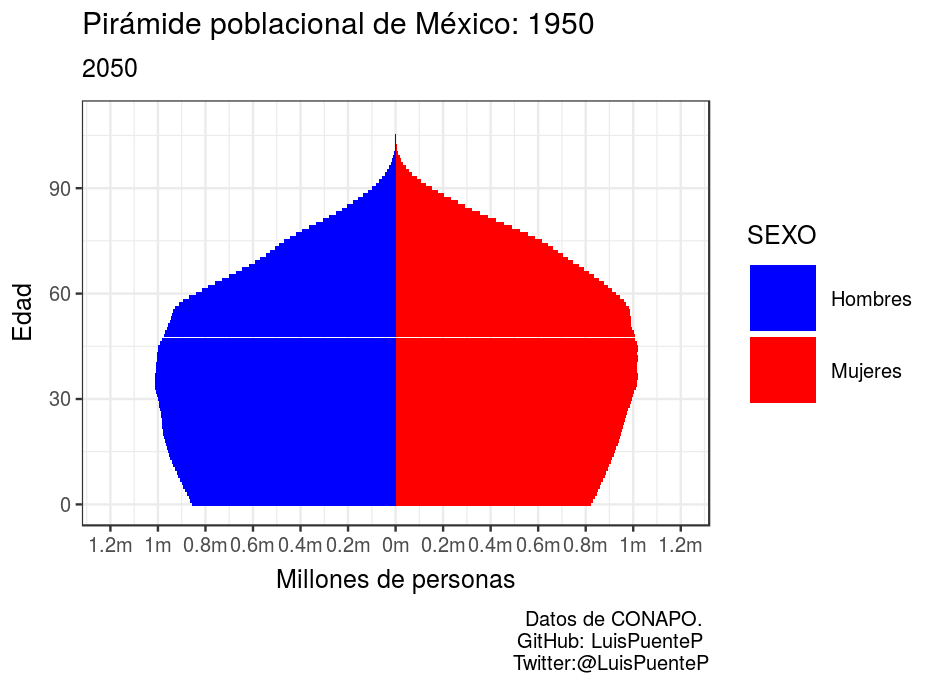
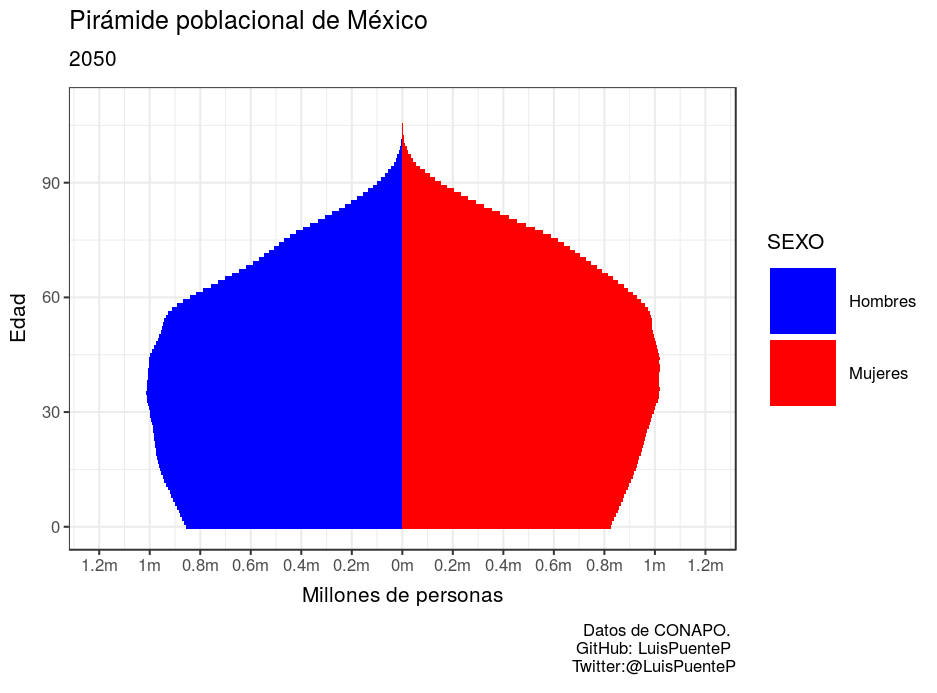
Subo datos

diff --git a/README.md b/README.md
@@ -45,11 +45,11 @@ n1 <- ggplot(data, aes(x = EDAD, y = POBLACION, fill = SEXO)) +
   scale_y_continuous(limits =c (-1.2,1.2), breaks = seq(-1.2, 1.2, .2), 
                      labels = paste0(as.character(c(seq(1.2, 0, -.2), seq(.2, 1.2, .2))), "m")) + 
   coord_flip() + 
-  theme_bw(base_size = 7) +
+  theme_bw(base_size = 5) +
   scale_fill_manual(values = c("blue", "red")) +
   labs(x = "Edad", y = "Millones de personas",
-       title = "Pirámide poblacional de México: 1950-2050",
-       subtitle = title,
+       title = "Pirámide poblacional de México",
+       subtitle = 2050,
        caption = "Fuente: CONAPO. \n  GitHub: LuisPuenteP") 
 
 print(n1)
